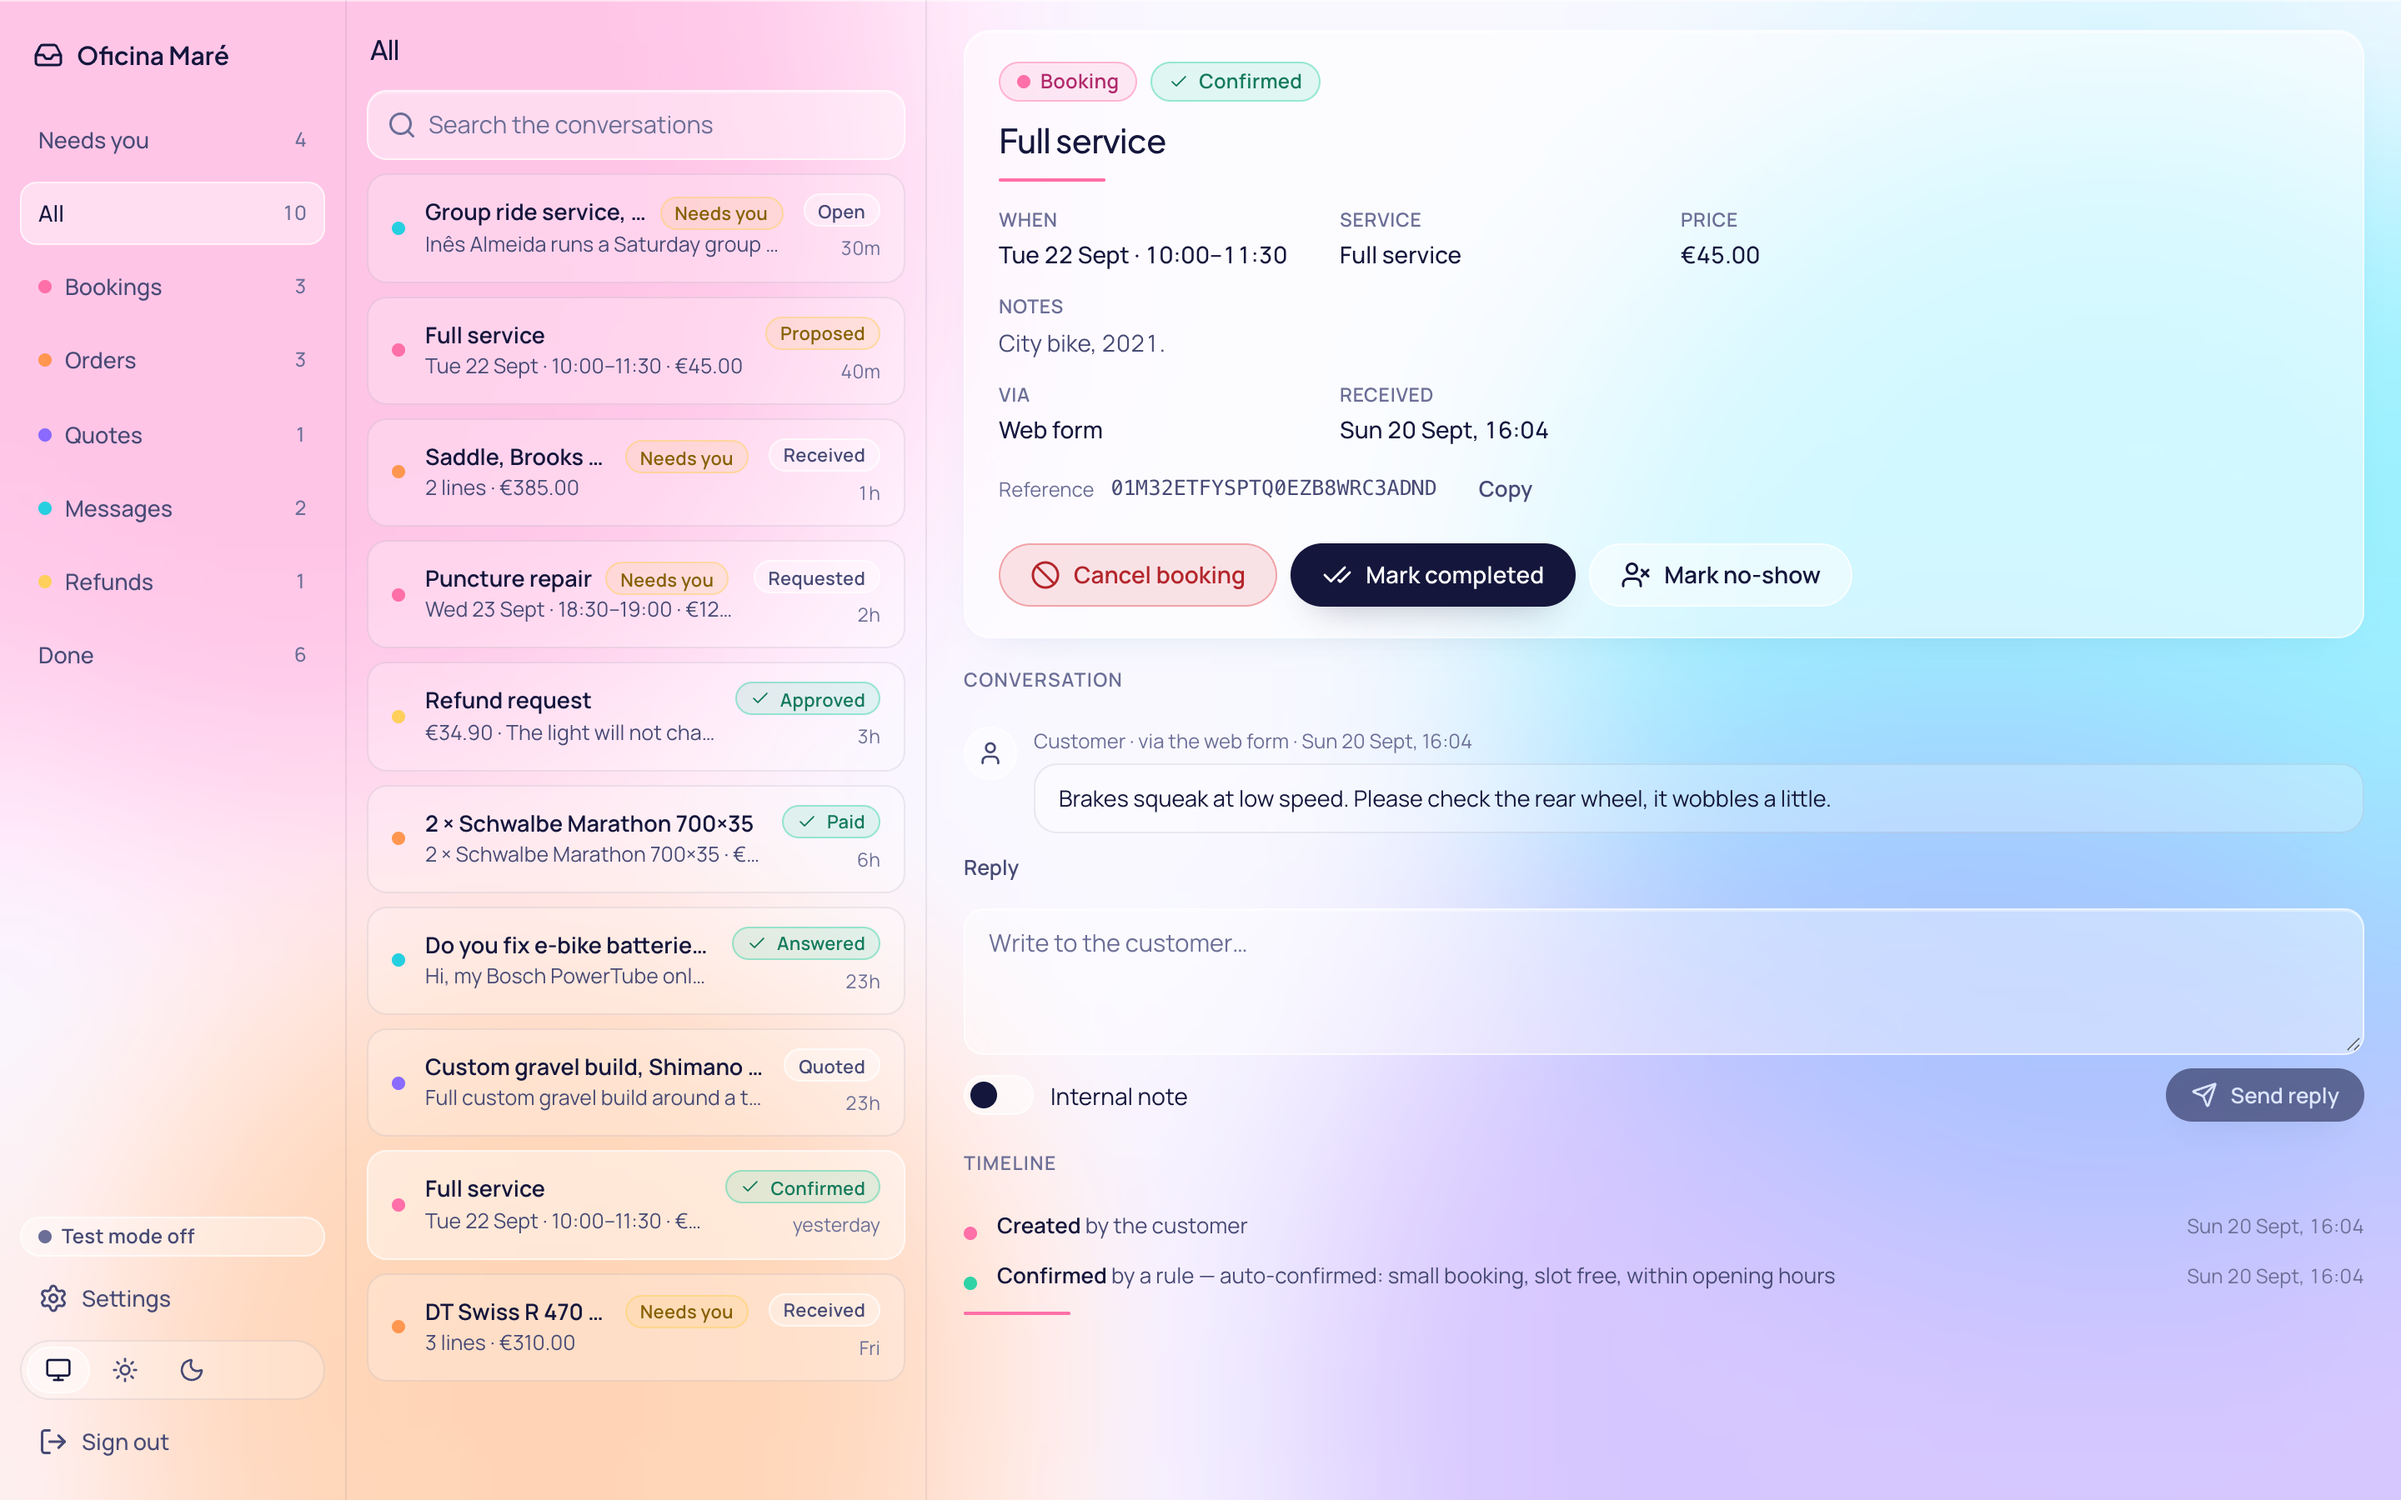
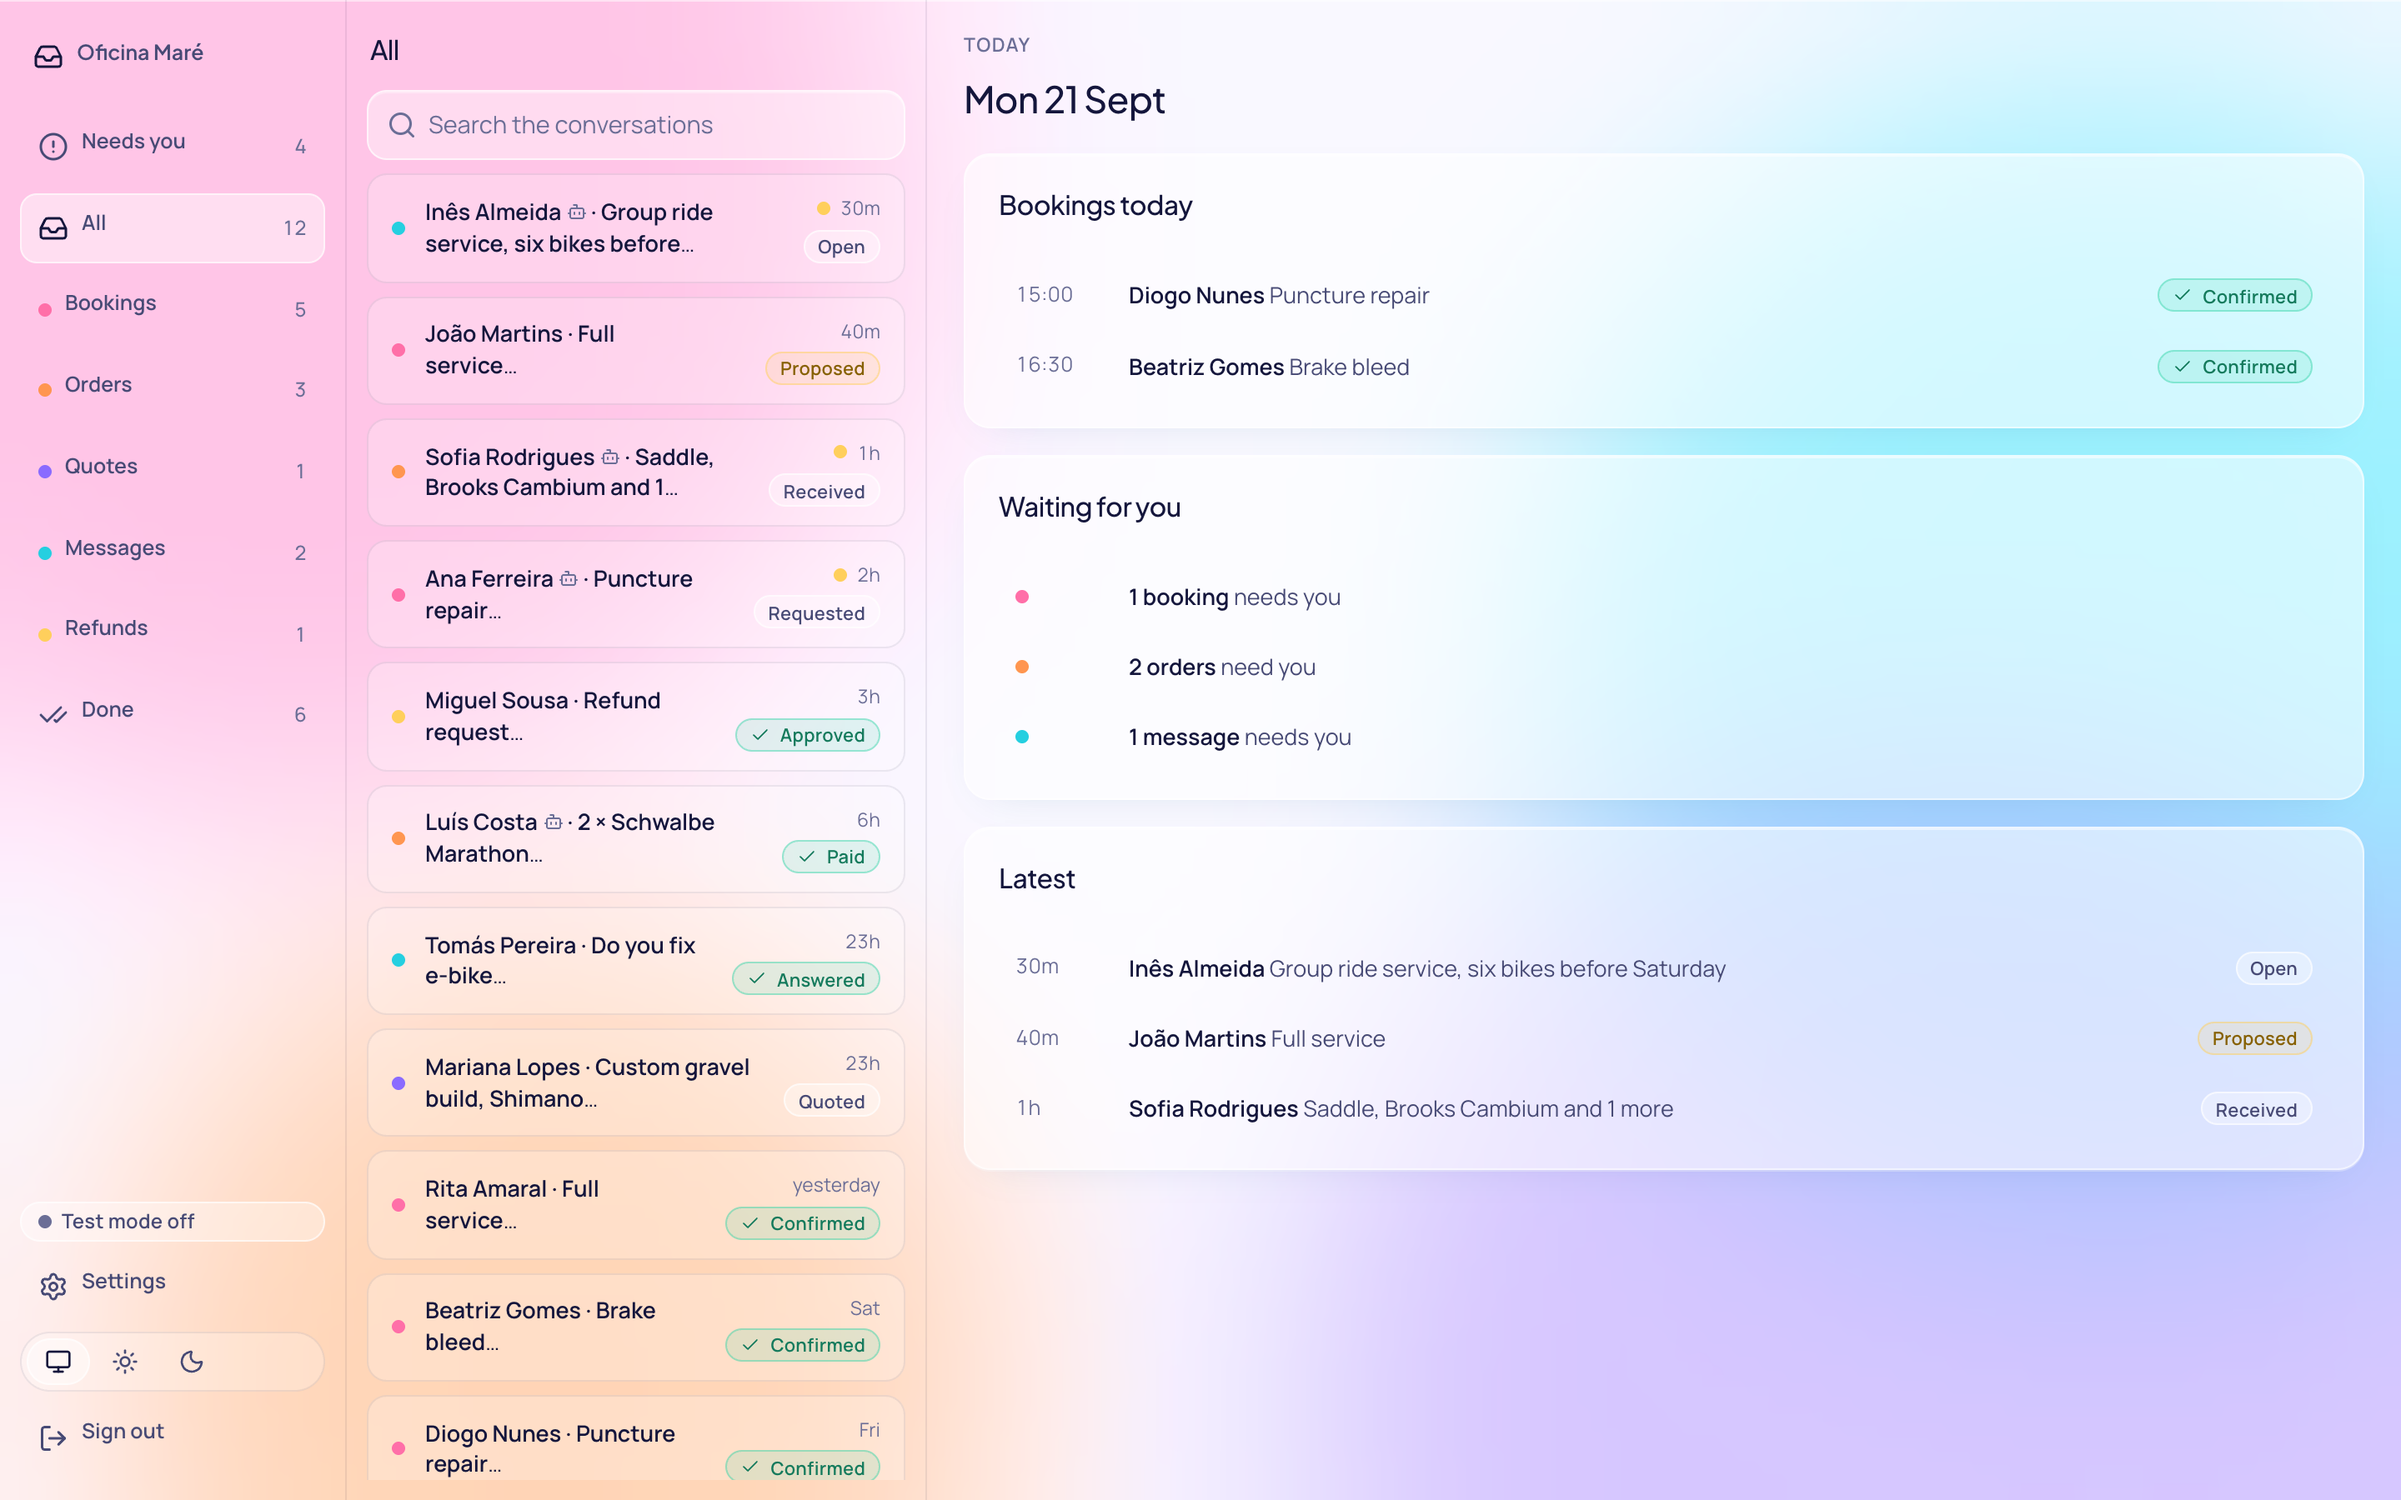
Showcase: two bookings today; screenshots with names and the Today pane
The seed adds two confirmed bookings for today so the Today pane has something to open on.
The pipeline names its owner through INBOX_OWNER_EMAIL, as an empty instance no longer hands
itself to the first address, and the inbox captures now show the Today pane with named rows;
all six pictures re-taken.

diff --git a/apps/inbox/src/seed.ts b/apps/inbox/src/seed.ts
@@ -559,6 +559,47 @@ export async function seedShowcase(db: Db, now = Date.now()): Promise<{ seeded: 
     count++;
   }
 
+  // 7b. Two bookings today, confirmed days ago: what the Today pane opens on.
+  for (const [days, hh, mm, service, name, who, mail, note] of [
+    [
+      3,
+      15,
+      0,
+      "puncture",
+      "Puncture repair",
+      "Diogo Nunes",
+      "diogo.nunes@example.com",
+      "Rear tyre, tubeless; it lost pressure overnight.",
+    ],
+    [
+      2,
+      16,
+      30,
+      "brakes",
+      "Brake bleed",
+      "Beatriz Gomes",
+      "beatriz.gomes@example.com",
+      "Front lever feels spongy since the last ride.",
+    ],
+  ] as const) {
+    const start = localTime(now, TZ, 0, hh, mm);
+    const t = now - days * DAY;
+    const r = await createItem(db, person(t), {
+      type: "booking",
+      payload: {
+        reservationFor: { serviceId: svc[service], name },
+        startTime: iso(start),
+        endTime: iso(start + (service === "brakes" ? 45 : 30) * MIN),
+        totalPrice: EUR(service === "brakes" ? 3500 : 1200),
+      },
+      contact: { name: who, email: mail },
+      message: note,
+    });
+    await settle(t);
+    await confirmIfNeeded(db, owner(t + 20 * MIN), r.view.item.id);
+    count++;
+  }
+
   // 8. A message from a person, answered.
   {
     const t = now - DAY;
